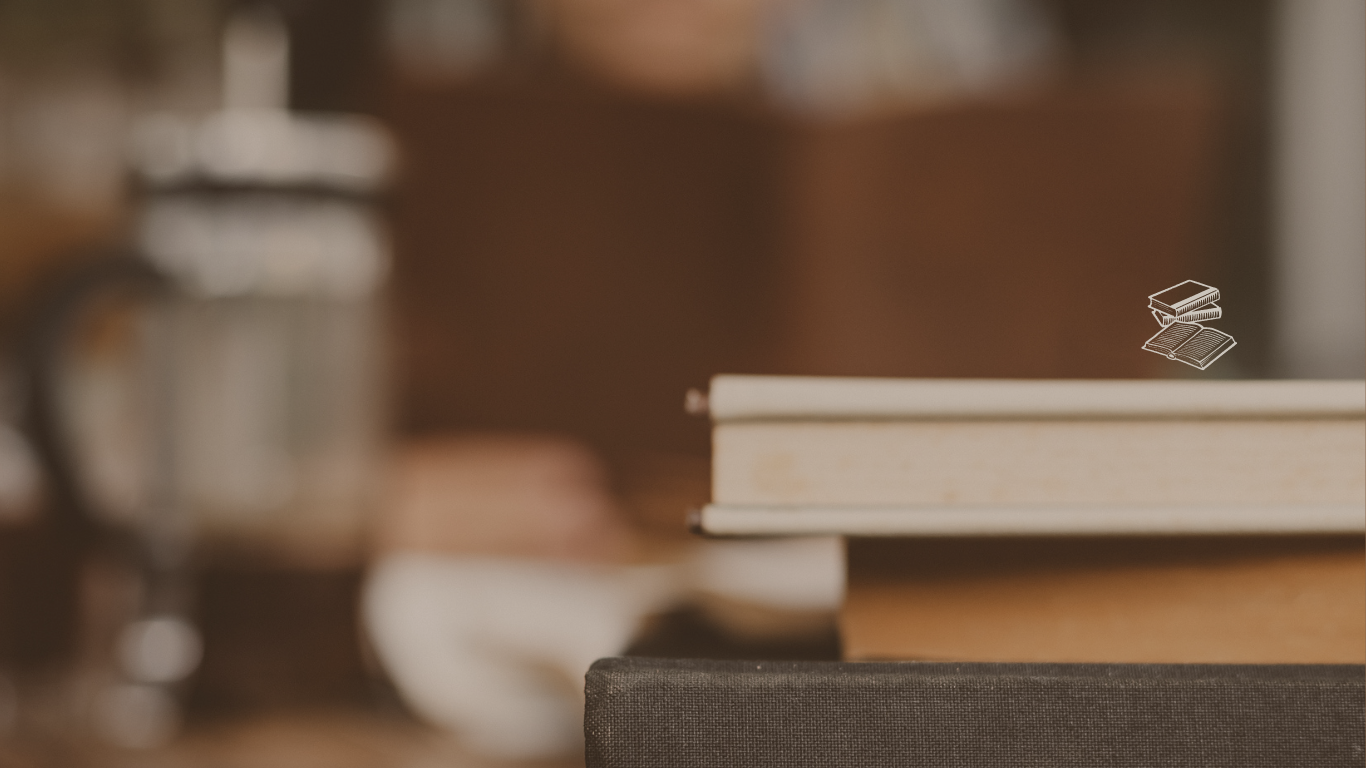
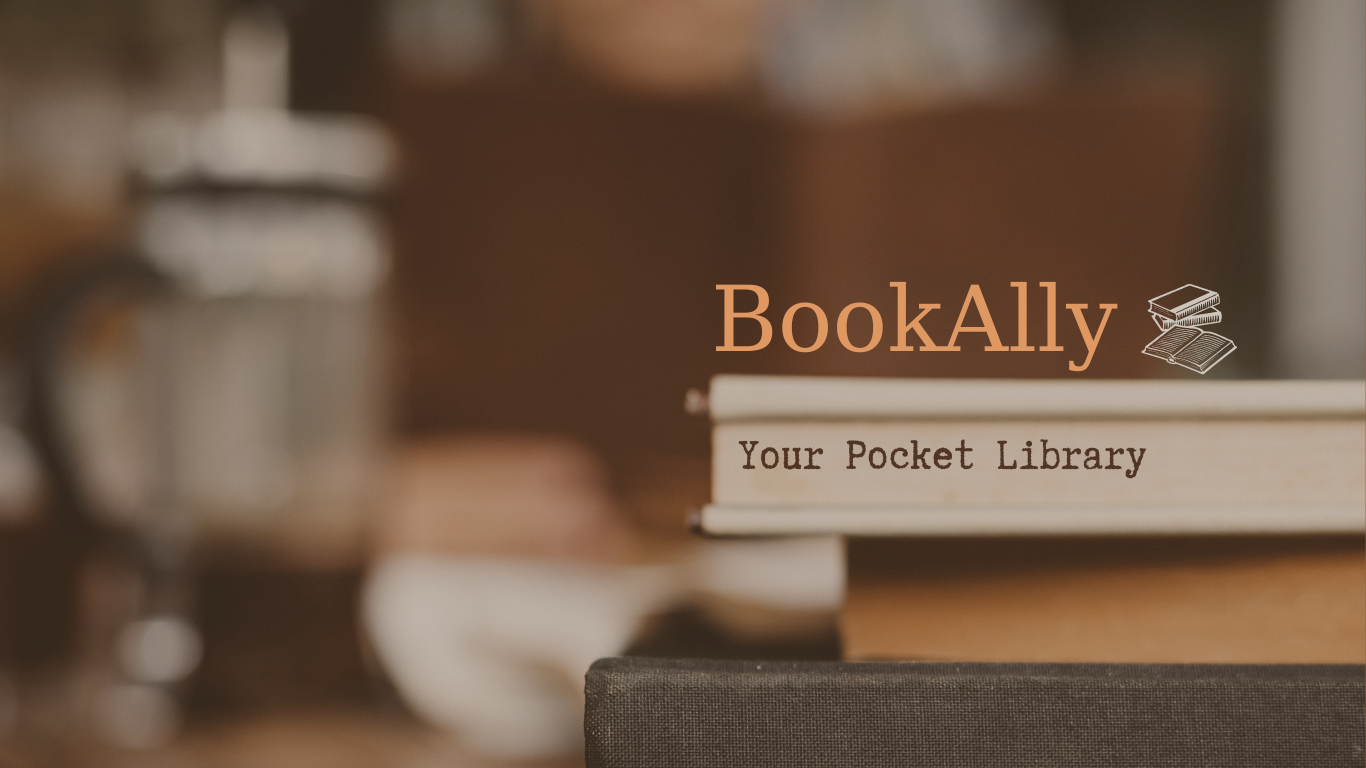
g

Changed region(s): [[0.5227, 0.3438, 0.9224, 0.5], [0.5227, 0.5625, 0.8609, 0.625]]

diff --git a/htmlfolder/menu.html b/htmlfolder/menu.html
@@ -1,4 +1,4 @@
-<html>
+<!--<html>
     <head>
         <meta charset="UTF-8">
         <meta name="viewport" content="width=device-width, initial-scale=1.0">
@@ -22,4 +22,66 @@
             </div>
         </main>
     </body>
+</html>--> 
+
+
+<html>
+    <head>
+        <meta charset="UTF-8">
+        <meta name="viewport" content="width=device-width, initial-scale=1.0">
+        <meta name="author" content="t8200177@aueb.gr">
+        <title>Menu</title>
+
+        <style>
+            .dropbtn {
+              background-color: #04AA6D;
+              color: white;
+              padding: 16px;
+              font-size: 16px;
+              border: none;
+            }
+            
+            .dropdown {
+              position: relative;
+              display: inline-block;
+            }
+            
+            .dropdown-content {
+              display: none;
+              position: absolute;
+              background-color: #f1f1f1;
+              min-width: 160px;
+              box-shadow: 0px 8px 16px 0px rgba(0,0,0,0.2);
+              z-index: 1;
+            }
+            
+            .dropdown-content a {
+              color: black;
+              padding: 12px 16px;
+              text-decoration: none;
+              display: block;
+            }
+            
+            .dropdown-content a:hover {background-color: #ddd;}
+            
+            .dropdown:hover .dropdown-content {display: block;}
+            
+            .dropdown:hover .dropbtn {background-color: #3e8e41;}
+            </style>
+    </head>
+
+    <body>
+        <h2>Hoverable Dropdown</h2>
+<p>Move the mouse over the button to open the dropdown menu.</p>
+
+<div class="dropdown">
+  <button class="dropbtn">Dropdown</button>
+  <div class="dropdown-content">
+    <a href="#">Link 1</a>
+    <a href="#">Link 2</a>
+    <a href="#">Link 3</a>
+  </div>
+</div>
+    </body>
+
 </html>

diff --git a/cssfolder/index.css b/cssfolder/index.css
@@ -12,16 +12,6 @@ html {
     align-items: center;
     background-color: #3a3a3a;
   }
-  
-  #title{
-    color: #df9861;
-    font-size: 590%;
-    font-family: 'DejaVu serif', Courier,monospace;
-    font-weight:normal;
-    position: absolute;
-    left: 51%;
-    top: 28%;
-  }
 
 
   #backgroundloginimage {
@@ -90,7 +80,7 @@ html {
   }
   
   .loginformfield {
-    height: 35px;
+    height: 50%;
     width: 100%;
     position: relative;
     border: none;
@@ -113,7 +103,6 @@ html {
     background-color: #825e41;
     cursor: pointer;
     outline: none;
-    bottom: 10%;
     
   }
 
